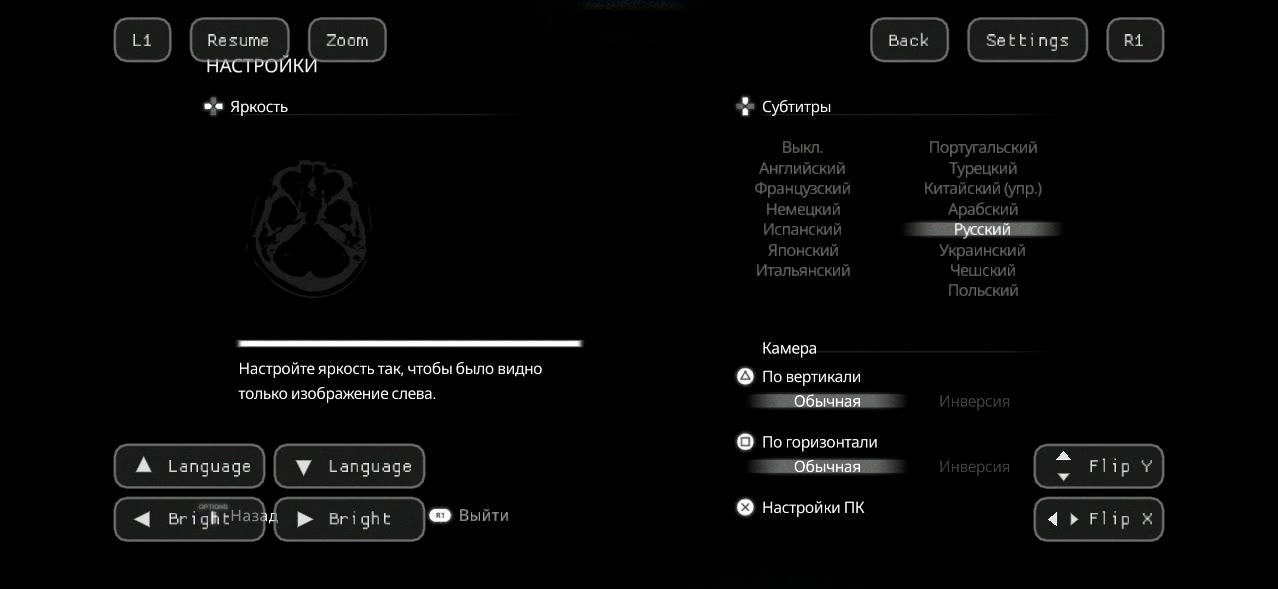
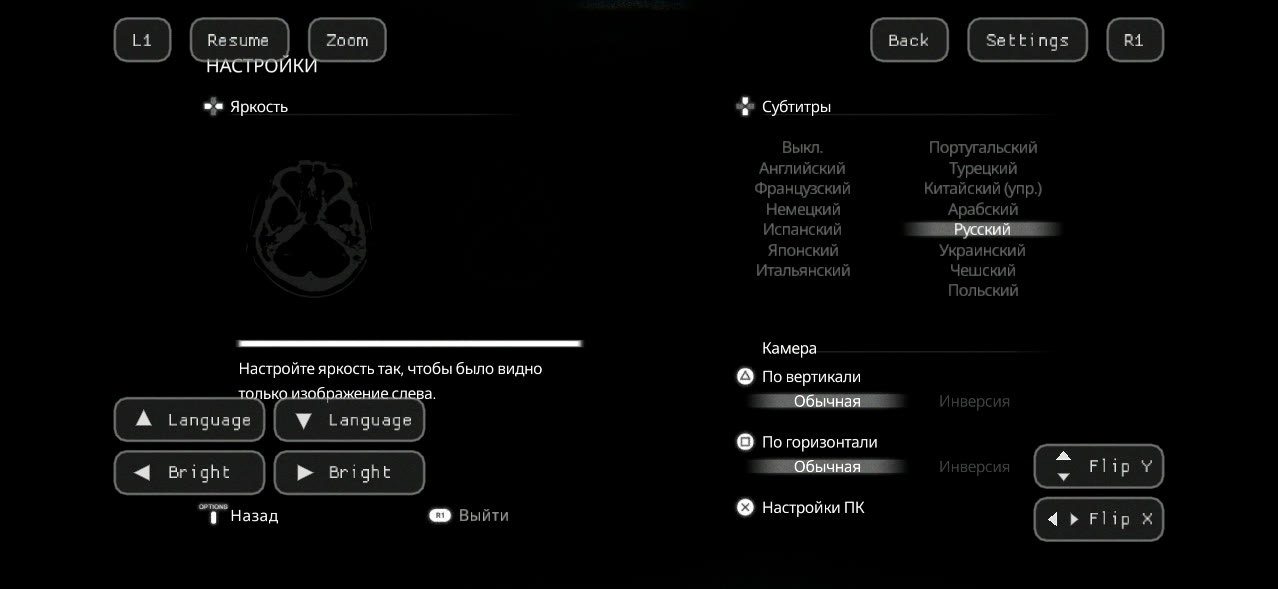
README: current iPhone screenshots, the Display and Upscaling pages
The play and original options screenshots retaken with the current touch
layout, the PC settings' Display (render scale) and Upscaling (MetalFX and
its frame generation) pages added.

Changed region(s): [[0.0915, 0.6723, 0.3357, 0.9474]]

diff --git a/README.md b/README.md
@@ -57,10 +57,17 @@ Clicking the left stick (L3) hurries until you click it again or stop.
 
 ## What is different on iOS
 
+![PC settings, Display, on an iPhone 15](docs/media/ios_touch_display.jpg)
+
+![PC settings, Upscaling, on an iPhone 15](docs/media/ios_touch_upscaling.jpg)
+
+*PC settings on an iPhone 15: Display with the render scale, Upscaling with Apple MetalFX and its frame generation.*
+
 - Display: no window modes or sizes; PC settings > Display > Render scale (50 to 100 %, 67 % by default) is the share of
   the screen's resolution the game draws at, applied at the next start. HDR works on an EDR screen.
 - Upscaling: Apple MetalFX (Quality to Ultra performance) instead of FSR, DLSS and XeSS. On an A16 MetalFX itself costs
-  about 10 ms a frame, so it pays off only at the lower steps.
+  about 10 ms a frame, so it pays off only at the lower steps. MetalFX frame generation (iOS 26 or newer, with the
+  MetalFX upscaler) shows a generated frame between two rendered ones; on an A16 the interpolation itself is heavy.
 - Hurry (Fast Walk, PC settings > Extras) is on by default: walk 50 % faster with the Hurry button, L3, or Shift.
 - Shadows are capped at 1024 px tiles; texture levels over 512 px are left out where the textures are decoded on the
   CPU.
